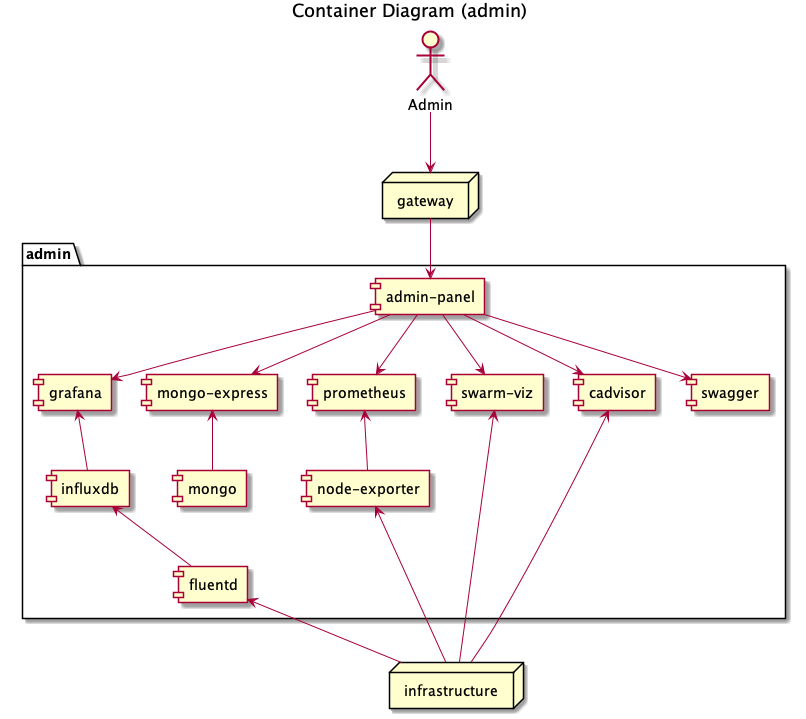
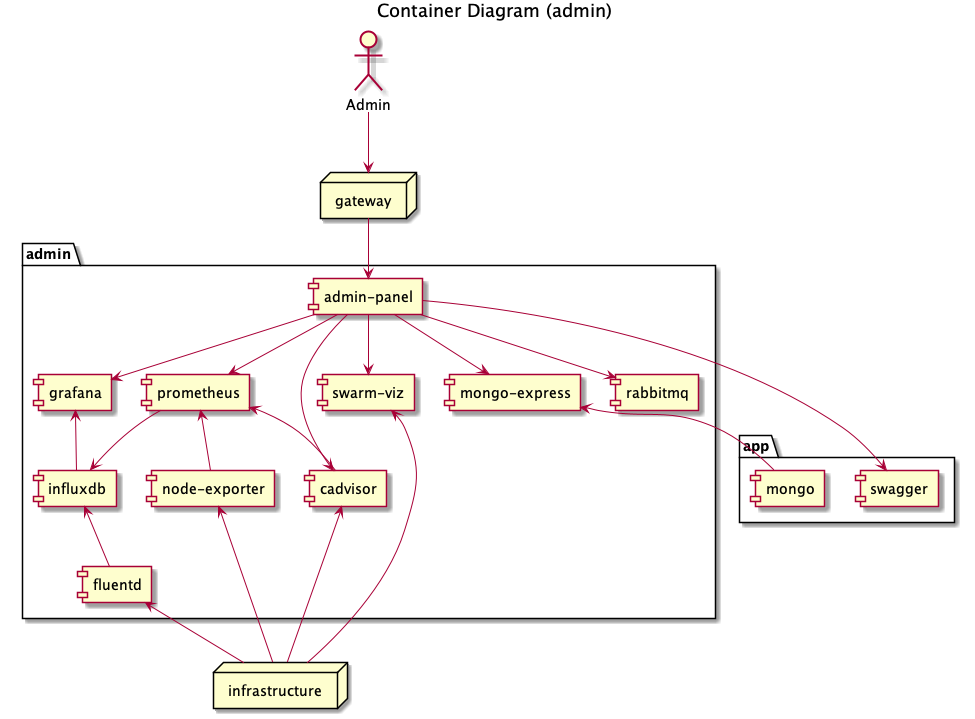
describe architecture

diff --git a/docs/architecture.md b/docs/architecture.md
@@ -1,11 +1,49 @@
 # Architecture
 
-## System Context diagram
+# Architecture
 
-![context](./diagrams/context.png)
+## System's Architecture Overview
 
-## Container diagrams
+There are two parts of the system:
+- **app** - all microservices required to provide sorting feature
+- **admin** - services that monitor and manage *app* components and the **infrastructure**
+
+All user interfaces of both: **app** and **admin** are available through the **web gateway** (available at http://192.168.10.100).
+
+![system overview](./diagrams/context.png)
+
+## Sorting Microservices Design
+
+The main application is split into several components. The frontend UI and the API are available through **web gateway** at http://192.168.10.100
 
 ![app container](./diagrams/container_app.png)
+
+Component          | Description
+-------------------|--------------------------------------------------------
+oversort-frontend  | web server that host web UI containing sorting form
+oversort-backend   | provides API gateway for backend services and orchiestrate them
+oversort-store     | keeps historical results of sorting
+mongo              | database where all sorting operations are stored
+redis              | cache used to optimize queries to oversort-store
+rabbitmq           | message queue that transport sort operation
+
+## Administration and Monitoring
+
+A set of services is provided to manage the main application and the infrastructure where it runs. All UI's of administration services are available through **web gateway** at http://192.168.10.100/admin. Usually, each of those services provides separate UI. All of them are integrated by **admin-panel** component that provides proper routing and linking by embedding UI of other administration services.
+
 ![admin container](./diagrams/container_admin.png)
+
+### Log Management
+Logs from docker images are forwarded to **fluentd** log collector and stored in **influxdb**. One of **Grafana** dashboards is configured to display collected logs. Grafana is available through the **admin-panel**.
+
+![admin container - logging](./diagrams/container_admin_logging.png)
+
+### Swarm Cluster Monitoring
+**Grafana** displays performance statistics of all services. It connects to **influxdb** to get the data. Performance metrics are provided by **Prometheus**, which collects them from **node-exporter** and **cAdvisor**. UI of **Grafana**, **cAdvisor** instances and **Prometheus** are available through the **admin-panel**.
+
+![admin container - perf](./diagrams/container_admin_perf.png)
+
+## Infrastructure
+The system runs on 4 Virtual Machines, where two Docker Swarm clusters are spawn: **app-swarm-cluster** and **infra-swarm-cluster**. Infra cluster must be started before the app cluster since **fluentd** log collector is hosted there, and all app containers depend on it. Infra cluster hosts also **web-gateway**, which is the first load balancer and route traffic between the app and administration services.
+
 ![infra container](./diagrams/container_infrastructure.png)
